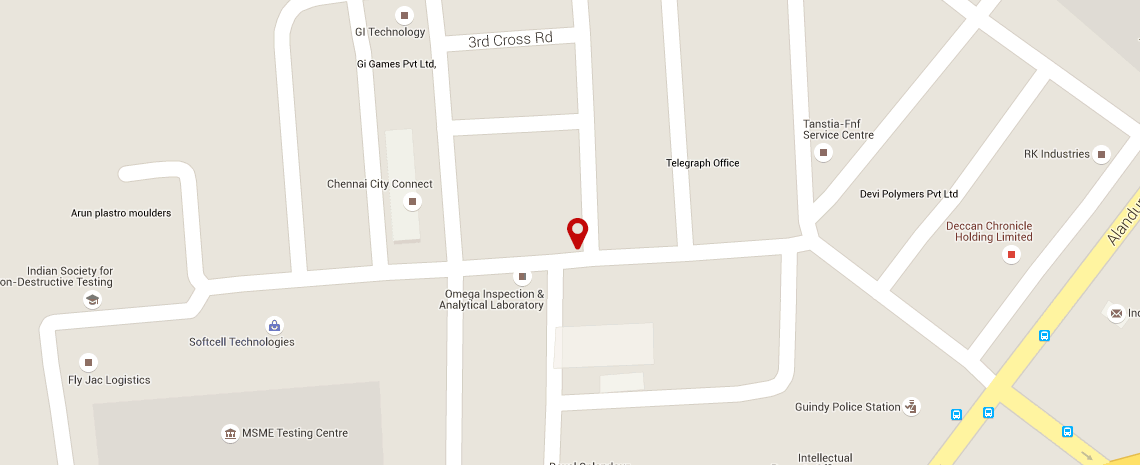
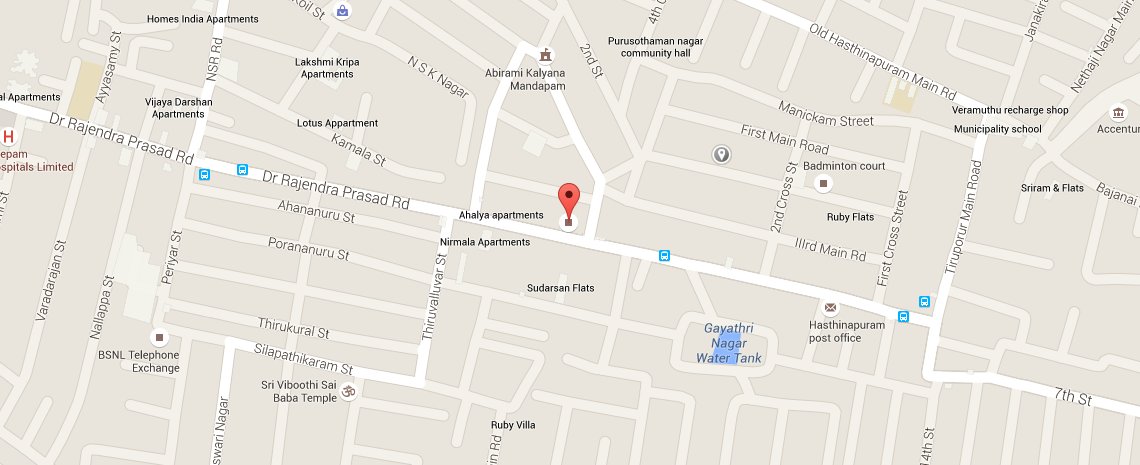
changes

Changed region(s): [[0.0, 0.0, 1.0, 1.0], [0.7061, 0.9634, 0.7675, 0.9935]]

diff --git a/products/et-core/index.php b/products/et-core/index.php
@@ -35,18 +35,13 @@
             <div id="about" class="col-md-8 col-md-offset-2 text-center">
                 <h3 class="inner-heading">About ET Core</h3>
                 <div class="text-left">
-                    <p>With an in-depth understanding of ERP implementation & 
-                        consulting experience and Enterprise Mobility, ET CORE is 
-                        expertise to Mobilize various ERP modules. </p>
-                    <p>ET CORE is a built-in connectors to to major ERP which 
-                        seamless integrates with mobile application. User can 
-                        perform all ERP transaction effortlessly from handheld 
-                        on the move. </p>
-                    <p>The built-in connectors is highly customizable to the 
-                        project and client business requirement. The connectors are 
-                        readily available to Oracle eBs Suite R12 for various modules 
-                        and can be used for any specific modules with minimal effort. </p>
-                    <p>ET CORE, Everything you need in a touch.  </p>
+                    <p>ET CORE is what you should be looking for to mobilize your ERP Modules, the efficient and effective way! ET CORE comes with a sound knowledge and history of ERP implementation and Enterprise Mobility coupled with consulting experiences.</p>
+
+                    <p>ET CORE has built-in connectors to major ERP systems which seamlessly integrate and transform ERP services a mobile application.</p>
+
+                    <p>The built-in connectors are highly customizable and flexible to adapt to the needs of an Enterprise. The connectors are readily available to Oracle eBs Suite R12 for various modules and can be used for any specific modules with minimal effort.</p>
+
+                    <p>ET CORE, Everything you need on a touch.</p>
                 </div>
             </div>
 

diff --git a/company.php b/company.php
@@ -15,11 +15,11 @@
 
             <div class="row">
                 <div class="col-md-8 col-md-offset-2">
-                    <p>Enterprise Touch is formed from an idea evolved from a team of well experienced HR people to use the power of mobility in HR Department of an organization. That idea is materialized by a team of highly skilled technology team by crafting a mobile application product which extends the HR module of leading ERPs to Mobile devices. The first product of Enterprise Touch is launched in GITEX 2013 in Dubai. </p>
+                    <p>Enterprise Touch came into existence based on ideas of a well experienced and passionate HR Team to use the power of mobility to leverage functions of an HR Department within an organization. That was the start. The first Enterprise Touch product was launched in GITEX 2013, Dubai.</p>
 
-                    <p>As a proof of Enterprise Touch's competency, we bagged the first order from a leading ministry in the Middle East to implement the HR product of Enterprise Touch followed by a Railways and an Event management department formed to manage a biggest event in 2022. </p>
+                    <p>As a part of the journey thus far Enterprise Touch has implemented its Enterprise Mobility projects in the Middle East for an Internal Ministry, Railway Ministry and now is the process of implementation for an event management company hosting the FIFA 2022 world cup.</p>
 
-                    <p>Though ET is designed as a HR product, to cater the challenging needs, Enterprise Touch extended its offerings to other modules like Supply chain, Financials etc. for the major ERPs.</p>
+                    <p>Though Enterprise Touch is designed as an HR product in its current form, we also extend our offerings to other modules such as Supply chain, Finance and other ERP systems.</p>
                 </div>
             </div>
         </div>

diff --git a/reach-us.php b/reach-us.php
@@ -14,9 +14,9 @@
                 <span class="fa fa-map-marker"></span>
                 <p>
                     <strong>ENTERPRISE TOUCH</strong><br>
-                    5th Floor, Siddharth Tower, 4, T.V.K. Indl. Estate, Guindy - 600032. India.
+                    SAL Square, 15, Rajendra Prasad Road, Hasthinapuram, Chromepet, Chennai - 600 044.
                 </p>
-                <p>+91 44 42009710 , +91 96773 36622, +91 96773 36622</p>
+                <p>+91-44-45564300 / 45540022</p>
                 <a href="mailto: naren@enterprisetouch.com">naren@enterprisetouch.com</a>
             </div>
 

diff --git a/products/index.php b/products/index.php
@@ -26,7 +26,7 @@
                 </a>
                 <a class="media" href="atom/index.php">
                     <span class="media-left">
-                        <img class="media-object" src="/assets/images/products/atom.png" alt="ATOM">
+                        <img class="media-object" src="../assets/images/products/atom.png" alt="ATOM">
                     </span>
                     <span class="media-body">
                         <span class="media-heading">ATOM</span>

diff --git a/includes/reachus-mailer.php b/includes/reachus-mailer.php
@@ -1,7 +1,7 @@
 <?php
 
 if (isset($_POST['submit'])) {
-    $to = "info@gopir13.com, karnan.athisivam@truetechsolutions.in"; // this is your Email address
+    $to = "naren@enterprisetouch.com"; // this is your Email address
     $from = "enquiry@enterprisetouch.com"; // this is the sender's Email address
     $name = $_POST['name'];
     $email = $_POST['email'];
